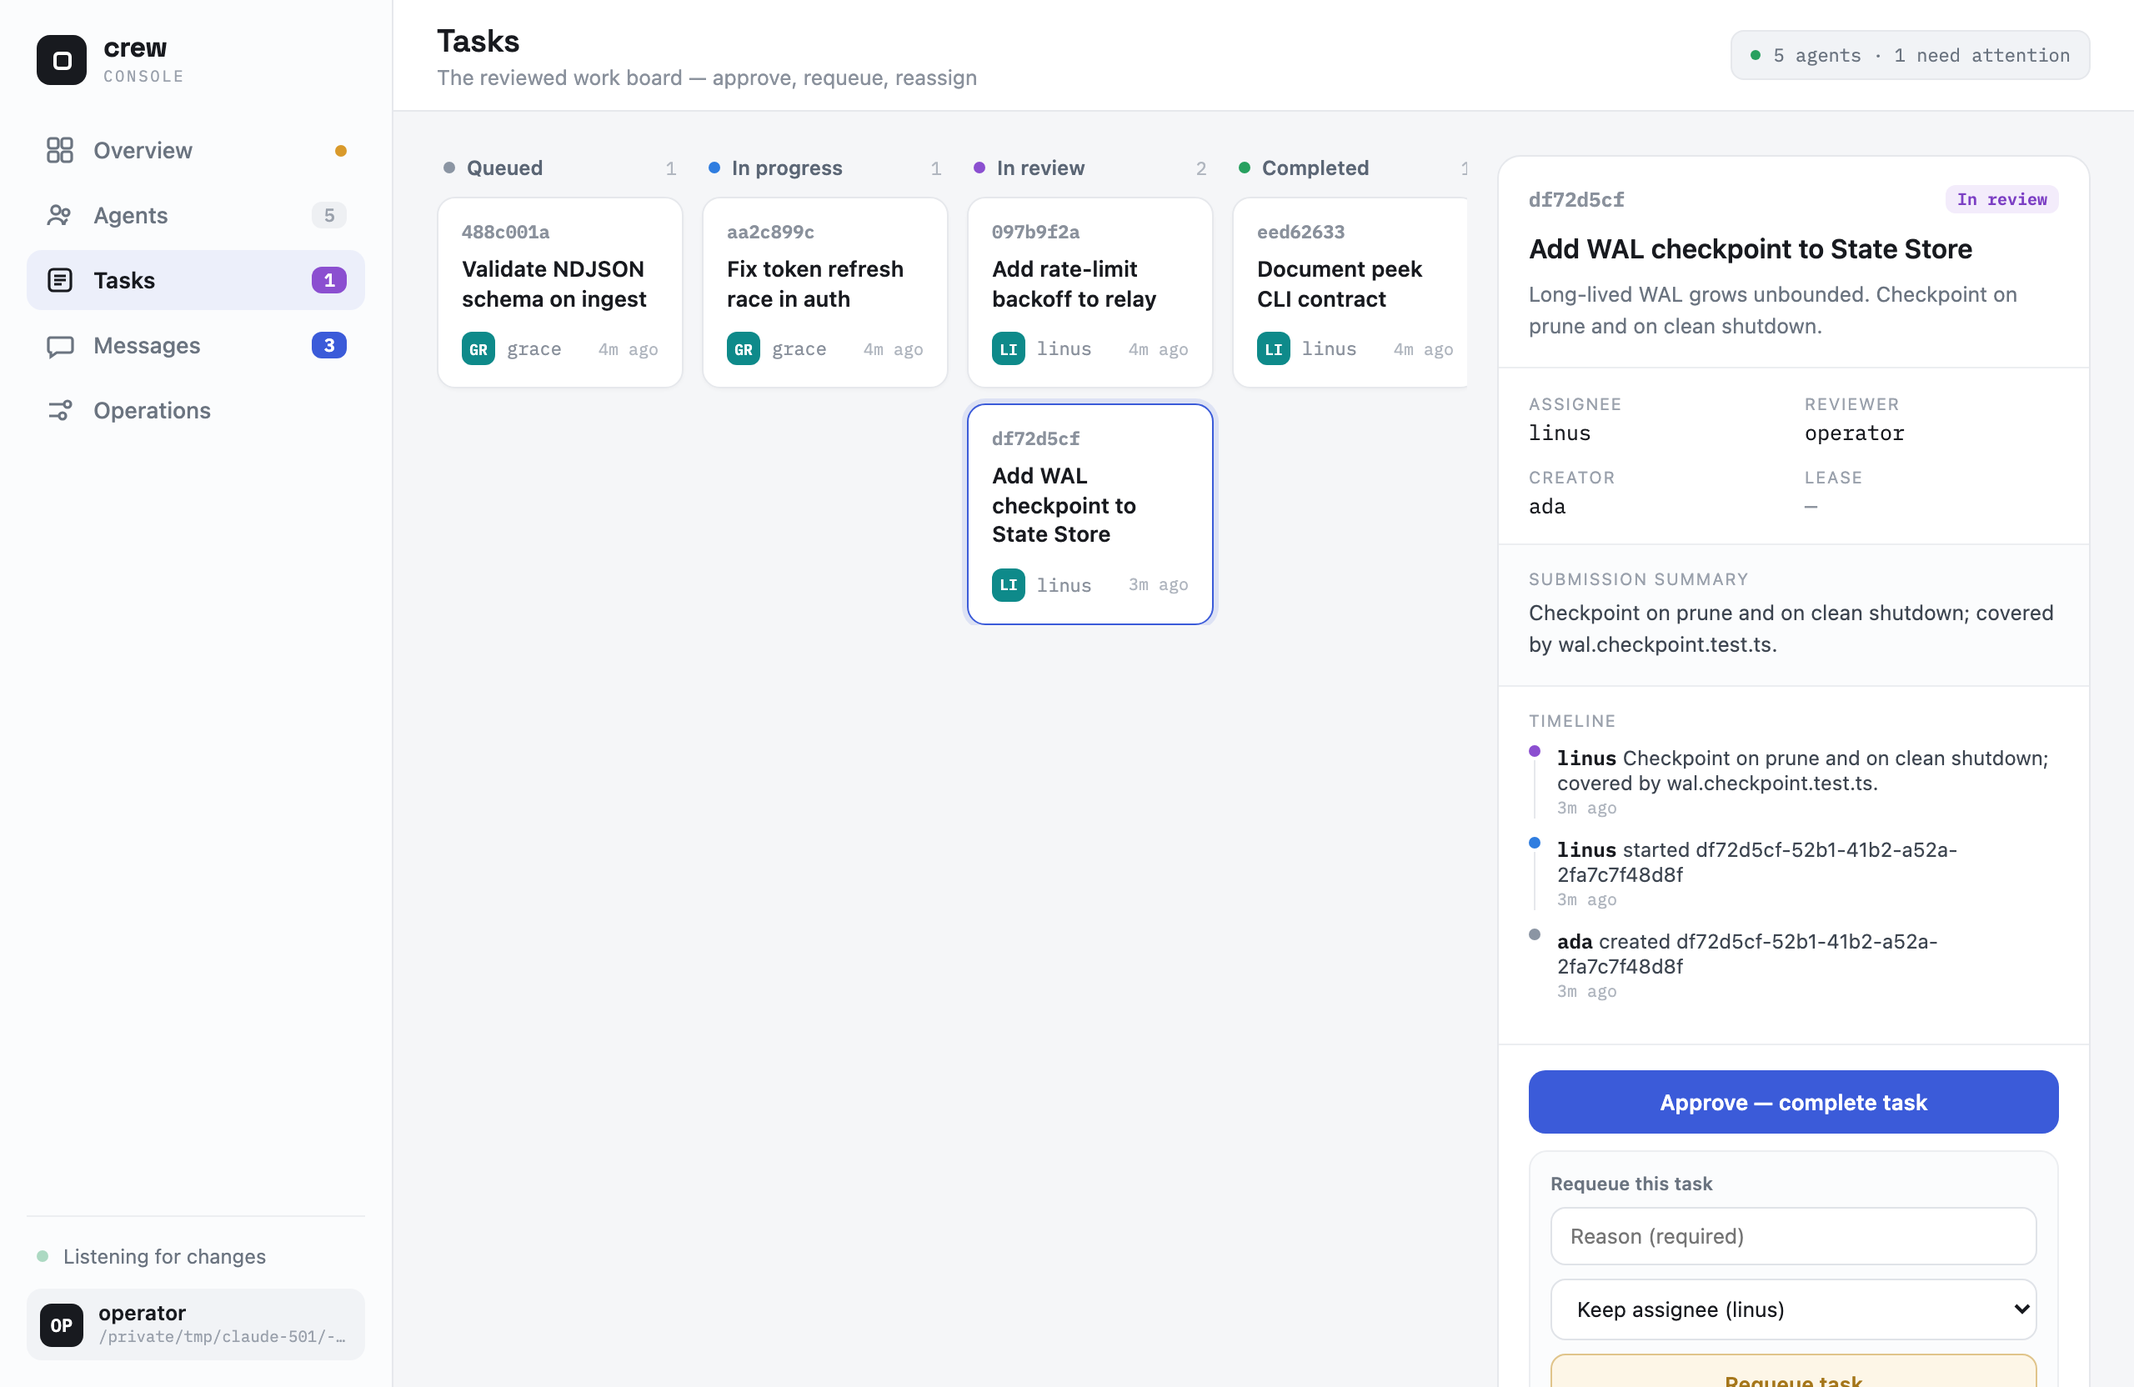
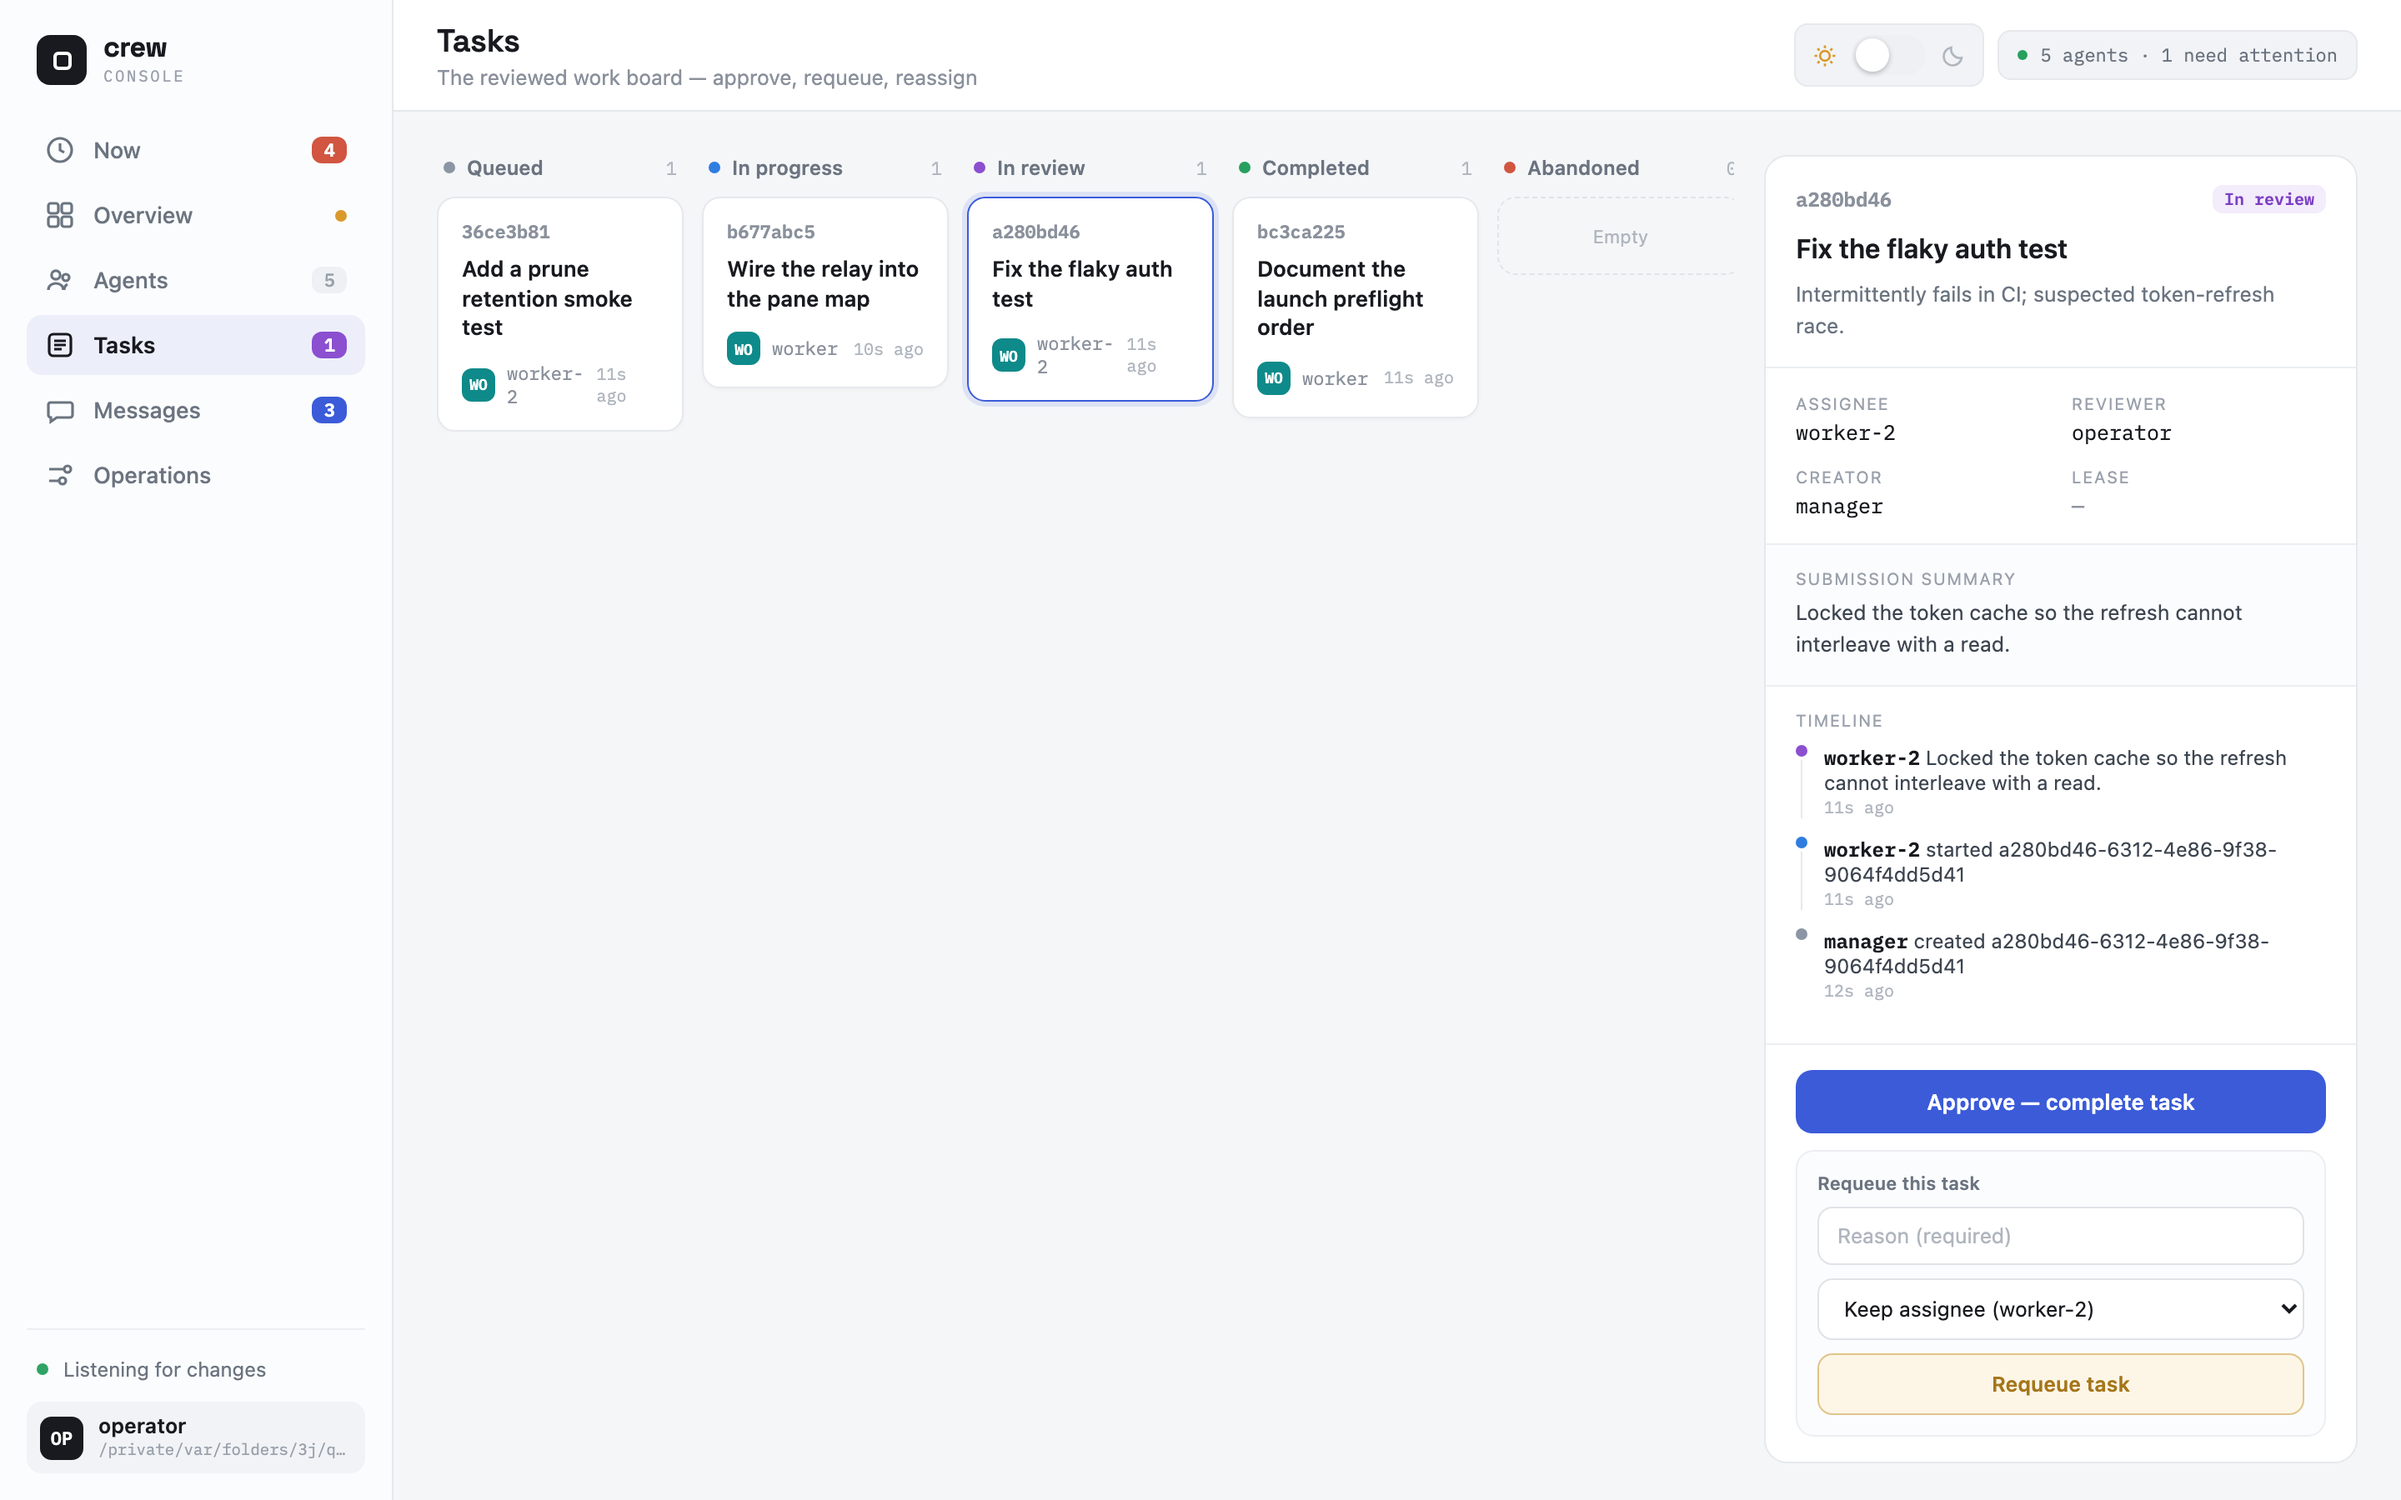
docs: correct the Console and wind-down claims a user follows literally
README.md and EXAMPLES.md are the two documents a new user reads before
anything else, and both sit below the ADRs, the SRS, and the CLI contract in
the authority order — so where they disagreed with the shipped Console and the
launcher, they are the side that moves.

Five drifts, each costing exactly where it is read:

The walkthrough's wind-down sequence is followed literally, and three of its
bullets handed the reader a command that fails: bare `crew clean` refuses with
ACTIVE_AGENTS in precisely the state the bullet offered it, `crew team stop`
needs the worktree as its cwd after a `--worktree` launch because that is where
the launch wrote the pane map, and `crew team resume` was stated as a guarantee
when it is the strictest command in the CLI. The remaining two were a false
absolute ("only a failed launch deletes anything" — `prune` and `clean` delete,
three sections down in the same file) and a true `--print` fact dropped in an
earlier rewrite.

The Console action list is the only place a user learns what the browser can
do, so it read as exhaustive while a shipped, FR-U36-specified capability —
archiving and restoring an Agent — was invisible, and the confirmation gate was
counted at three when FR-U25 now gates four. README described that same gate as
a typed confirmation phrase, which ADR-0013 replaced with one click plus a
`confirm: true` flag; that was the project's most prominent account of the
Console's only irreversible interaction, and it was wrong.
[…]

diff --git a/EXAMPLES.md b/EXAMPLES.md
@@ -43,20 +43,24 @@ crew team dev --launch --client claude-code --workers 3
   stay out of your main checkout. A **live** launch creates or reuses that worktree as its
   last preparation step — after every read-only check has passed, and before anything
   touches tmux — and then runs the whole launched Crew inside it: its State Store, its
-  generated files, and every pane's working directory. `--no-worktree` overrides a worktree
-  recorded in your tracked configuration.
+  generated files, and every pane's working directory. `--print` creates nothing but still
+  shows the path the worktree would use. `--no-worktree` overrides a worktree recorded in
+  your tracked configuration.
 - Disconnecting and ending the tmux session yourself deletes nothing: the Agent rows this
   launch created stay active and keep their ids. Wind the Team down with
   `crew team stop <session>`, which kills a session crew can prove it owns and *archives*
-  the Agents named in its pane map — `crew team resume` later reactivates exactly those
-  rows. `crew leave` archives a single Agent, and `crew clean` resets the whole Workspace.
-  An archived id is never handed out to a later `crew join`; `crew join <id> --resume` is how
-  you claim it back.
-- Only a launch that **fails** partway deletes anything. Once crew has confirmed it tore
-  down the session it created, it removes the untouched Agent rows carrying this launch's
-  token — those with no Task, Task Event, or Message attached — which frees their ids so
-  `dev` can be launched again immediately. That cleanup is best-effort and is skipped when
-  the teardown could not be confirmed.
+  the Agents named in its pane map — when the Team was launched with `--worktree`, run it
+  from inside that worktree, where the launch wrote that pane map. `crew team resume` can
+  bring exactly those rows back later: it relaunches the session from the stored plan, but
+  only while that plan still matches your Team and every one of those Agents is still
+  archived. `crew leave` archives a single Agent, and `crew clean --force` resets the whole
+  Workspace — without `--force` it refuses while Agents are active. An archived id is never
+  handed out to a later `crew join`; `crew join <id> --resume` is how you claim it back.
+- Only a launch that **fails** partway deletes any of those rows by itself. Once crew has
+  confirmed it tore down the session it created, it removes the untouched Agent rows
+  carrying this launch's token — those with no Task, Task Event, or Message attached — which
+  frees their ids so `dev` can be launched again immediately. That cleanup is best-effort and
+  is skipped when the teardown could not be confirmed.
 
 ## 2. A rejected task gets requeued and reassigned
 
@@ -213,7 +217,7 @@ crew ui --port 7420             # bind an exact port instead of a random free on
 crew ui --json --no-open        # emit one ui_started record, then keep serving in the foreground
 ```
 
-![The crew Console dashboard: agent roster, health, task board, task detail, and messages](./docs/images/console-dashboard.png)
+![The crew Console's Overview screen: the six-view navigation rail — Now, Overview, Agents, Tasks, Messages, Operations — with the light/dark theme toggle in the header, headline counts, the live crew roster, what needs attention, and a recent-events feed](./docs/images/console-dashboard.png)
 
 - `crew ui` starts an HTTP server that only you, the Operator, start; it stays in the
   foreground of your terminal and listens only on `127.0.0.1`, so it is reachable only from
@@ -234,13 +238,19 @@ crew ui --json --no-open        # emit one ui_started record, then keep serving 
   the Console can also **drive** the Crew through the same authority rules and Store
   operations as the CLI: send a Message, create a Task with any reviewer, approve or requeue
   a Submission you review, launch a Team without attaching a terminal, stop a Team that crew
-  can prove it started, peek at a pane's text (cleaned of terminal control characters), and
-  run `prune`/`clean`. The server always decides who is acting from the session itself — a
-  request body cannot name a different actor.
-- The three destructive actions — **Team stop, `prune`, and `clean`** — each take one extra
-  click to confirm: the browser puts up a dialog naming the irreversible effect, and the
-  request it then sends carries a `{ "confirm": true }` flag the server checks for itself. A
-  POST without that flag fails with `USAGE`, so a bare request can never fire one of them.
+  can prove it started, peek at a pane's text (cleaned of terminal control characters),
+  archive an Agent or restore an archived one — exactly what `crew leave` and
+  `crew join <id> --resume` do — and run `prune`/`clean`. The server always decides who is
+  acting from the session itself — a request body cannot name a different actor.
+- The four destructive actions — **Team stop, `prune`, `clean`, and archiving an Agent** —
+  each take one extra click to confirm: the browser puts up a dialog naming the irreversible
+  or hard-to-reverse effect, and the request it then sends carries a `{ "confirm": true }`
+  flag the server checks for itself. A POST without that flag fails with `USAGE`, so a bare
+  request can never fire one of them. Restoring an archived Agent is deliberately left
+  outside that gate — it is the reversible corrective action, offered with no prompt:
+
+![The Console's one-click confirmation dialog for `prune`: a modal titled "Prune workspace history" naming the irreversible effect, with Cancel and Prune buttons and nothing to type](./docs/images/console-confirm.png)
+
 - The Tasks view is the reviewed-work board — Tasks grouped by status, with the selected
   Task's detail beside them, where you approve a Submission or requeue its Task:
 

diff --git a/README.md b/README.md
@@ -131,7 +131,7 @@ screen:
 crew ui                        # start the Console; prints an authenticated local URL and opens it
 ```
 
-![The crew Console's Overview screen: sidebar, headline counts, the live crew roster, what needs attention, and a recent-events feed](./docs/images/console-dashboard.png)
+![The crew Console's Overview screen: the six-view navigation rail — Now, Overview, Agents, Tasks, Messages, Operations — with the light/dark theme toggle in the header, headline counts, the live crew roster, what needs attention, and a recent-events feed](./docs/images/console-dashboard.png)
 
 - It is an HTTP server that you start yourself and that stays in the foreground of your
   terminal. It listens only on `127.0.0.1`, so it is reachable only from your own computer,
@@ -149,8 +149,11 @@ crew ui                        # start the Console; prints an authenticated loca
 - The human is represented as an ordinary Agent named `operator`, with no special powers, so
   the Console can also **act on** the Crew under the same rules as any other Agent: send a
   Message, create/approve/requeue a Task, launch a Team without attaching your terminal,
-  stop a Team that crew can prove it started, peek at a pane, and run `prune`/`clean` after
-  you type a confirmation phrase.
+  stop a Team that crew can prove it started, peek at a pane, archive or restore an Agent,
+  and run `prune`/`clean`. Every destructive one of those takes a single click in a dialog
+  that names the irreversible effect — there is no phrase to type — and the request it then
+  sends carries a `confirm: true` flag the server verifies for itself, so a bare POST can
+  never fire one.
 - **The URL it prints is a secret** - anyone on the machine who has it can act as the
   Operator until the server stops. Don't paste or share it; restarting `crew ui` makes the
   old URL useless.
